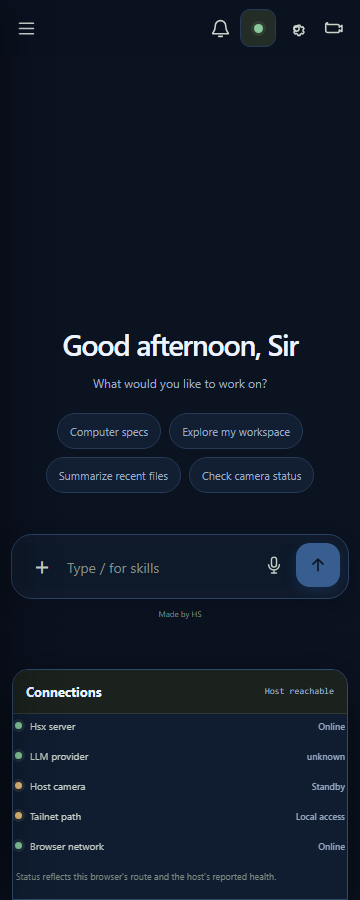
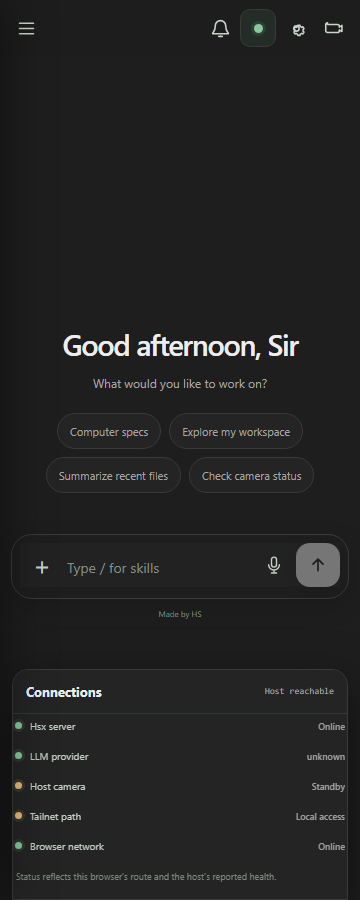
Redesign sidebars and neutralize theme palette

diff --git a/web/chat.css b/web/chat.css
@@ -1,19 +1,20 @@
 :root {
   color-scheme: dark;
-  --background: #0b1220;
-  --sidebar: #101a2b;
-  --surface: #121e31;
-  --surface-raised: #192942;
-  --surface-input: #101a2b;
-  --border: #263a57;
-  --text: #edf4ff;
-  --muted: #9aacc5;
-  --accent: #7db7ff;
-  --accent-strong: #4a9cff;
+  --background: #1e1e1e;
+  --sidebar: #181818;
+  --surface: #242424;
+  --surface-raised: #2d2d2d;
+  --surface-input: #222222;
+  --border: #3a3a3a;
+  --text: #ededed;
+  --muted: #a5a5a5;
+  --accent: #d2d2d2;
+  --accent-strong: #f0f0f0;
   --success: #87c99a;
   --warning: #e6bd77;
   --danger: #e28e88;
-  --code-background: #101411;
+  --code-background: #151515;
+  --button-text: #171717;
   --font-body: Inter, "Segoe UI", sans-serif;
   --font-code: "JetBrains Mono", Consolas, monospace;
   font-family: var(--font-body);
@@ -190,16 +191,6 @@ button:focus-visible, a:focus-visible, textarea:focus-visible, input:focus-visib
 .feedback-dialog label { color: var(--muted); font-size: 11px; }
 .feedback-dialog input, .feedback-dialog textarea { width: 100%; padding: 9px; border: 1px solid var(--border); border-radius: 8px; color: var(--text); background: #151a17; font: inherit; }
 .feedback-dialog form > div { display: flex; justify-content: flex-end; gap: 8px; margin-top: 4px; }
-.auth-dialog { width: min(440px, calc(100vw - 28px)); padding: 22px; border: 1px solid var(--accent); border-radius: 16px; color: var(--text); background: var(--surface); box-shadow: 0 24px 80px #000b; }
-.auth-dialog::backdrop { background: #070a08c9; backdrop-filter: blur(3px); }
-.auth-dialog form { display: grid; gap: 11px; }
-.auth-dialog h2 { margin: 0; font-size: 18px; }
-.auth-dialog p { margin: 0; color: var(--muted); line-height: 1.6; }
-.auth-dialog label { color: var(--text); font-size: 12px; }
-.auth-dialog input { width: 100%; padding: 11px; border: 1px solid var(--border); border-radius: 8px; color: var(--text); background: var(--surface-raised); font: inherit; }
-.auth-dialog #auth-message { min-height: 1em; color: var(--warning); font-size: 12px; }
-.auth-dialog button { min-height: 40px; border: 1px solid var(--accent); border-radius: 9px; color: #07151f; background: var(--accent); font: inherit; font-weight: 700; }
-
 .settings-dialog { width: min(760px, calc(100vw - 40px)); max-width: none; max-height: min(760px, calc(100dvh - 40px)); padding: 0; overflow: hidden; border: 1px solid #3b473e; border-radius: 18px; color: var(--text); background: var(--surface); box-shadow: 0 28px 90px #0009; }
 .settings-dialog::backdrop { background: #050806bf; backdrop-filter: blur(3px); }
 .settings-shell { display: flex; flex-direction: column; max-height: inherit; }
@@ -388,7 +379,7 @@ kbd { padding: 2px 4px; border: 1px solid #3c473f; border-radius: 4px; color: #a
   .sidebar-activity, .history-panel, .panel-collapse-button svg, .chat-history-row, .chat-history-item { transition-duration: .01ms !important; }
 }
 
-:root[data-theme="light"] { color-scheme: light; --background: #f5f7f5; --sidebar: #e9eeea; --surface: #fff; --surface-raised: #edf2ee; --surface-input: #fff; --border: #cbd5cd; --text: #1d2820; --muted: #5e6c61; --accent: #8cbe96; --accent-strong: #609d6c; --success: #3d8752; --warning: #a26e1f; --danger: #a1453d; --code-background: #edf1ed; }
+:root[data-theme="light"] { color-scheme: light; --background: #ffffff; --sidebar: #f7f7f7; --surface: #ffffff; --surface-raised: #f2f2f2; --surface-input: #ffffff; --border: #dedede; --text: #242424; --muted: #646464; --accent: #343434; --accent-strong: #1f1f1f; --success: #287a42; --warning: #885b10; --danger: #a13b36; --code-background: #f5f5f5; --button-text: #ffffff; }
 @media (max-width: 390px) {
   .chat-controls { gap: 2px; }
   .header-icon-button { width: 36px; height: 38px; }
@@ -538,146 +529,144 @@ kbd { padding: 2px 4px; border: 1px solid #3c473f; border-radius: 4px; color: #a
 .activity-capability-status[data-status="needs setup"] { color: var(--warning, #e0b56d); }
 .activity-capability-status[data-status="not possible yet"] { color: var(--text-muted); }
 
-/* Blue workspace refresh and compact sidebar cards. */
+/* Neutral surfaces, compact sidebar cards, and independent right-panel scroll regions. */
 .sidebar { padding: 18px 14px 14px; background: var(--sidebar); }
-.brand { justify-content: flex-start; margin: 0 0 18px; padding-left: 5px; }
-.brand-inner { justify-content: flex-start; }
-.new-chat-button { justify-content: flex-start; border-color: #31527b; background: #162944; }
-.new-chat-button:hover { border-color: #4a9cff; background: #1b3556; }
+.brand { justify-self: center; justify-content: center; margin: 0 0 18px; padding: 0; text-align: center; }
+.brand-inner { justify-content: center; }
+.new-chat-button { justify-content: flex-start; border-color: var(--border); background: var(--surface-raised); }
+.new-chat-button:hover { border-color: var(--muted); background: var(--surface); }
 .sidebar-activity, .history-panel {
   flex: 0 0 auto;
+  min-width: 0;
   max-height: none;
   margin-top: 12px;
   padding: 11px;
   border: 1px solid var(--border);
   border-radius: 14px;
-  background: linear-gradient(145deg, #14233a, #101a2b 75%);
+  background: var(--surface);
 }
-.sidebar-activity .artifacts-heading, .history-panel .artifacts-heading {
-  align-items: center;
-  margin: 0;
-}
-.sidebar-activity .panel-eyebrow, .history-panel .panel-eyebrow {
-  margin-bottom: 5px;
-  color: #82a9d8;
-}
+.sidebar-activity .artifacts-heading, .history-panel .artifacts-heading { align-items: center; margin: 0; }
+.sidebar-activity .panel-eyebrow, .history-panel .panel-eyebrow { margin-bottom: 5px; color: var(--muted); }
 .sidebar-activity h2, .history-panel h2 { font-size: 13px; letter-spacing: -.01em; }
 .sidebar-activity .connection-summary {
   padding: 4px 8px;
-  border: 1px solid #31527b;
+  border: 1px solid var(--border);
   border-radius: 999px;
-  color: #b7d7ff;
-  background: #172d4a;
+  color: var(--muted);
+  background: var(--surface-raised);
 }
-.sidebar-activity.is-expanded { max-height: min(37vh, 360px); }
-.sidebar-activity.is-expanded .artifacts-list { max-height: min(30vh, 290px); }
+.sidebar-activity.is-expanded { max-height: min(34vh, 300px); }
+.sidebar-activity.is-expanded .artifacts-list { max-height: min(27vh, 220px); }
 .sidebar-activity .artifacts-list { display: grid; gap: 7px; padding-top: 8px; }
 .activity-item {
   display: block;
   padding: 0;
   overflow: hidden;
-  border: 1px solid #263d5c;
+  border: 1px solid var(--border);
   border-radius: 11px;
-  background: #111e32;
+  background: var(--surface-input);
 }
 .activity-item-toggle {
   display: grid;
-  grid-template-columns: minmax(0, 1fr) auto 16px;
+  grid-template-columns: 16px minmax(0, 1fr) auto 16px;
   align-items: center;
   gap: 8px;
   width: 100%;
-  min-height: 46px;
+  min-height: 42px;
   padding: 7px 9px;
   border: 0;
   color: var(--text);
   background: transparent;
   text-align: left;
 }
-.activity-item-toggle:hover, .activity-item-toggle:focus-visible { background: #172b47; }
-.activity-item-toggle > svg { width: 16px; height: 16px; fill: none; stroke: #91a9c8; stroke-linecap: round; stroke-linejoin: round; stroke-width: 1.8; transition: transform .16s ease; }
+.activity-item-toggle:hover, .activity-item-toggle:focus-visible { background: var(--surface-raised); }
+.activity-item-toggle > svg { width: 16px; height: 16px; fill: none; stroke: var(--muted); stroke-linecap: round; stroke-linejoin: round; stroke-width: 1.8; transition: transform .16s ease; }
+.activity-item-toggle > .activity-icon { width: 16px; height: 16px; stroke: var(--muted); }
+.activity-item[data-state="running"] .activity-item-toggle > .activity-icon { color: var(--accent); stroke: currentColor; }
 .activity-item-toggle[aria-expanded="true"] > svg { transform: rotate(180deg); }
-.activity-summary { overflow: hidden; color: #e8f2ff; font-size: 11px; font-weight: 580; text-overflow: ellipsis; white-space: nowrap; }
-.activity-meta { grid-column: 2; grid-row: 1; }
-.activity-state { padding: 4px 7px; border: 1px solid #31527b; border-radius: 999px; color: #a9cefb; background: #162b46; font-size: 8px; }
-.activity-state[data-state="failed"] { border-color: #7f4b52; color: #ffb8bf; background: #3a202a; }
+.activity-summary { overflow: hidden; color: var(--text); font-size: 11px; font-weight: 580; text-overflow: ellipsis; white-space: nowrap; }
+.activity-meta { grid-column: 3; grid-row: 1; }
+.activity-state { padding: 4px 7px; border: 1px solid var(--border); border-radius: 999px; color: var(--muted); background: var(--surface-raised); font-size: 8px; }
+.activity-state[data-state="failed"] { border-color: #784b47; color: #f0aaa3; background: #372523; }
 .activity-card-details { display: grid; gap: 7px; padding: 0 10px 10px; }
 .activity-card-details[hidden] { display: none; }
-.activity-detail { align-items: flex-start; padding-top: 6px; border-top: 1px solid #203650; font: 9px var(--font-code); }
-.activity-detail strong { max-width: 72%; color: #c5d8f1; overflow-wrap: anywhere; white-space: normal; text-align: right; }
+.activity-detail { align-items: flex-start; padding-top: 6px; border-top: 1px solid var(--border); font: 9px var(--font-code); }
+.activity-detail strong { max-width: 72%; color: var(--text); overflow-wrap: anywhere; white-space: normal; text-align: right; }
 .history-panel { flex: 1 1 auto; min-height: 160px; }
 .history-panel.is-expanded { min-height: 0; }
-.history-search {
-  min-height: 40px;
-  padding: 0 12px;
-  border-color: #2b4568;
-  border-radius: 10px;
-  background: #0e192a;
-  font-size: 12px;
-}
-.history-search:focus { border-color: var(--accent-strong); box-shadow: 0 0 0 3px #4a9cff30; }
-.chat-history-list { gap: 4px; padding-top: 9px; scrollbar-color: #365a83 transparent; }
-.chat-history-list::-webkit-scrollbar-thumb, .sidebar-activity .artifacts-list::-webkit-scrollbar-thumb { background: #365a83; }
+.history-search { min-height: 40px; padding: 0 12px; border-color: var(--border); border-radius: 10px; background: var(--surface-input); font-size: 12px; }
+.history-search:focus { border-color: var(--accent-strong); box-shadow: 0 0 0 2px color-mix(in srgb, var(--accent-strong) 18%, transparent); }
+.chat-history-list { gap: 3px; padding-top: 9px; scrollbar-color: #686868 transparent; }
+.chat-history-list::-webkit-scrollbar-thumb, .sidebar-activity .artifacts-list::-webkit-scrollbar-thumb { background: #686868; }
 .chat-history-row { padding: 0 5px; border-radius: 9px; }
-.chat-history-row:hover { background: #182b44; }
-.chat-history-row[data-active="true"] { background: #193353; }
+.chat-history-row:hover { background: var(--surface-raised); }
+.chat-history-row[data-active="true"] { background: var(--surface-raised); }
 .chat-history-row[data-active="true"]::before { background: var(--accent-strong); }
-.chat-history-item { color: #ccdcf2; }
-.chat-history-item svg { color: #86baff; }
-.chat-history-action { border-radius: 8px; color: #91aac9; }
-.chat-history-action:hover { color: #e5f1ff; background: #24466c; }
-.chat-controls { background: #0b1220ed; }
-.camera-sidebar { border-color: var(--border); background: var(--sidebar); }
-.notifications-panel { border-color: #2e4a6d; background: #101d31; }
-.composer-dock, .composer { border-color: #2b4261; background-color: #101a2b; }
-.composer-input-row { border-color: #2b4261; background: #0e192a; }
-.send-button, .stop-button {
-  width: 48px;
-  min-width: 48px;
-  height: 44px;
-  border: 0;
-  border-radius: 14px;
-}
-.send-button { color: #071426; background: #66aaff; box-shadow: 0 4px 14px #2e83e455; }
-.send-button:hover { background: #89bdff; }
+.chat-history-item { color: var(--text); }
+.chat-history-item svg { color: var(--muted); }
+.chat-history-action { border-radius: 8px; color: var(--muted); }
+.chat-history-action:hover { color: var(--text); background: var(--surface-raised); }
+.chat-controls { background: color-mix(in srgb, var(--background) 94%, transparent); }
+.camera-sidebar { min-height: 0; border-color: var(--border); background: var(--sidebar); }
+.camera-sidebar { grid-template-rows: minmax(0, 1fr) minmax(0, .8fr); gap: 12px; }
+.camera-sidebar > .camera-panel { min-height: 0; overflow: hidden; }
+.camera-sidebar > .artifacts-panel { display: grid; grid-template-rows: auto minmax(0, 1fr); min-height: 0; max-height: 38vh; margin-top: 0; overflow: hidden; }
+.camera-sidebar > .artifacts-panel .artifacts-heading { position: relative; z-index: 1; background: var(--surface); }
+.camera-sidebar > .artifacts-panel .artifacts-list { min-height: 0; overflow-y: auto; overscroll-behavior: contain; }
+.camera-sidebar .camera-view { min-height: 90px; }
+.notifications-panel { border-color: var(--border); background: var(--surface); }
+.notifications-heading { background: var(--surface); }
+.notification-toast { border-color: var(--border); background: var(--surface-raised); }
+.composer-dock, .composer { border-color: var(--border); background-color: var(--background); }
+.composer-dock { background: linear-gradient(180deg, color-mix(in srgb, var(--background) 90%, transparent), var(--background) 24%); }
+.composer-input-row { border-color: var(--border); background: var(--surface-input); }
+.send-button, .stop-button { width: 48px; min-width: 48px; height: 44px; border: 0; border-radius: 14px; }
+.send-button { color: var(--button-text); background: var(--accent); box-shadow: 0 3px 12px #0002; }
+.send-button:hover { filter: brightness(1.12); }
 .send-button:disabled { opacity: .48; }
-.stop-button { padding: 0 4px; color: #d7eaff; background: #1e3858; font-size: 10px; }
-.stop-button:hover { background: #294d77; }
+.stop-button { padding: 0 4px; color: var(--text); background: var(--surface-raised); font-size: 10px; }
+.stop-button:hover { background: var(--surface); }
 .message-attachments { display: flex; flex-wrap: wrap; justify-content: flex-end; gap: 8px; margin: 0 0 8px; }
 .message-attachments[hidden] { display: none; }
-.message-attachment {
-  display: flex;
-  align-items: center;
-  gap: 9px;
-  max-width: min(340px, 78vw);
-  min-width: 0;
-  padding: 8px 10px;
-  border: 1px solid #31527b;
-  border-radius: 12px;
-  color: var(--text);
-  background: #132540;
-  text-align: left;
-}
-.message-attachment:hover { border-color: #66aaff; background: #193252; }
-.message-attachment-type {
-  display: grid;
-  flex: 0 0 34px;
-  place-items: center;
-  width: 34px;
-  height: 38px;
-  border: 1px solid #3e6390;
-  border-radius: 7px;
-  color: #a9cefb;
-  background: #1b3554;
-  font: 8px var(--font-code);
-}
+.message-attachment { display: flex; align-items: center; gap: 9px; max-width: min(340px, 78vw); min-width: 0; padding: 8px 10px; border: 1px solid var(--border); border-radius: 12px; color: var(--text); background: var(--surface); text-align: left; }
+.message-attachment:hover { border-color: var(--muted); background: var(--surface-raised); }
+.message-attachment-type { display: grid; flex: 0 0 34px; place-items: center; width: 34px; height: 38px; border: 1px solid var(--border); border-radius: 7px; color: var(--muted); background: var(--surface-raised); font: 8px var(--font-code); }
 .message-attachment-image { display: grid; gap: 5px; max-width: min(320px, 78vw); padding: 6px; }
-.message-attachment-image img { display: block; width: min(300px, 70vw); max-height: 220px; border-radius: 8px; background: #0b1220; object-fit: contain; }
+.message-attachment-image img { display: block; width: min(300px, 70vw); max-height: 220px; border-radius: 8px; background: var(--code-background); object-fit: contain; }
 .message-attachment-label { display: grid; min-width: 0; gap: 3px; }
 .message-attachment-name { overflow: hidden; max-width: 100%; font-size: 10px; font-weight: 600; text-overflow: ellipsis; white-space: nowrap; }
 .message-attachment-label small { color: var(--muted); font-size: 9px; }
-.message-card[data-role="user"] .message-content { border-color: #29466a; background: #14243a; }
+.message-card[data-role="user"] .message-content { border-color: var(--border); background: var(--surface-raised); }
 .composer-footer { justify-content: flex-end; min-height: 0; margin-top: 3px; }
-@media (max-width: 390px) {
+.feedback-dialog input, .feedback-dialog textarea { background: var(--surface-input); }
+.settings-tabs, .provider-health-item { background: var(--surface-input); }
+.camera-placeholder-icon { border-color: var(--border); color: var(--muted); background: var(--surface-input); }
+.camera-placeholder strong, .camera-metrics strong { color: var(--text); }
+.camera-heading, .camera-metrics { border-color: var(--border); }
+.camera-sidebar .artifacts-panel .artifacts-heading { border-color: var(--border); }
+@media (max-width: 1100px) { .camera-sidebar { grid-template-rows: minmax(0, 1fr) minmax(180px, .7fr); } }
+@media (max-width: 700px) {
+  .camera-sidebar { grid-template-rows: auto minmax(0, 1fr); overflow-y: auto; }
+  .camera-sidebar > .camera-panel { overflow: visible; }
+  .camera-sidebar > .artifacts-panel { min-height: 180px; max-height: 42dvh; }
   .send-button, .stop-button { width: 44px; min-width: 44px; }
   .message-attachment { max-width: 84vw; }
+}
+@media (prefers-reduced-motion: reduce) {
+  .activity-item .activity-spinner { animation: none; }
+}
+:root[data-theme="light"] .chat-controls { background: rgb(255 255 255 / 94%); }
+:root[data-theme="light"] .markdown-body { color: #303030; }
+:root[data-theme="light"] .markdown-body a { color: #303030; }
+:root[data-theme="light"] .markdown-body :not(pre) > code { color: #292929; }
+:root[data-theme="light"] .markdown-body pre code { color: #252525; }
+:root[data-theme="light"] .settings-tabs, :root[data-theme="light"] .provider-health-item,
+:root[data-theme="light"] .feedback-dialog input, :root[data-theme="light"] .feedback-dialog textarea,
+:root[data-theme="light"] .debug-info { background: var(--surface-raised); }
+:root[data-theme="light"] .activity-details, :root[data-theme="light"] .activity-details pre,
+:root[data-theme="light"] .activity-command { background: #f2f2f2; }
+:root[data-theme="light"] .camera-metrics span, :root[data-theme="light"] .camera-placeholder,
+:root[data-theme="light"] .message-time { color: #656565; }
+@media (max-width: 390px) {
+  .send-button, .stop-button { width: 44px; min-width: 44px; }
 }

diff --git a/tests/test_ui_contract.py b/tests/test_ui_contract.py
@@ -154,6 +154,9 @@ def test_web_and_tui_load_the_same_design_and_api_contract():
 
     assert tui._TOKENS == web_tokens
     assert tui._API == web_api
+    assert web_tokens["colors"]["background"] == "#1e1e1e"
+    assert web_tokens["colors"]["accent"] == "#d2d2d2"
+    assert "blue" not in web_tokens["colors"]
     assert web_api["endpoints"]["chat_stream"] == "/api/chat/stream"
     assert web_api["endpoints"]["feedback"] == "/api/feedback"
     assert web_api["endpoints"]["telemetry"] == "/api/telemetry"
@@ -293,8 +296,11 @@ def test_web_user_actions_accordion_state_and_camera_stream_are_wired():
     assert ".panel-collapse-button[aria-expanded=\"false\"] svg { transform: none; }" in css
     assert 'aria-expanded="false"' in html
     assert 'access-token' not in html
-    assert "sessionStorage', 'hsx-api-token'" in script
-    assert "headers.set('Authorization'" in script
+    assert "hsx-api-token" not in script
+    assert 'id="auth-dialog"' not in html
+    assert "hsx-theme" in script
+    assert "prefers-color-scheme: light" in script
+    assert "Authorization" not in script
     assert 'id="emergency-banner"' in html
     assert "Emergency stop is active" in html
     assert "emergency_stop" in script

diff --git a/agent/tui.py b/agent/tui.py
@@ -40,12 +40,12 @@ def _build_css() -> str:
     }}
     #brand {{
         width: 1fr;
-        color: {_COLORS["blue"]};
+        color: {_COLORS["accent"]};
         text-style: bold;
     }}
     #connection {{
         width: 14;
-        color: {_COLORS["teal"]};
+        color: {_COLORS["success"]};
     }}
     .metric {{
         width: 18;
@@ -83,7 +83,7 @@ def _build_css() -> str:
     }}
     .message-heading {{
         height: 1;
-        color: {_COLORS["blue"]};
+        color: {_COLORS["accent"]};
         text-style: bold;
     }}
     .message-body {{
@@ -108,7 +108,7 @@ def _build_css() -> str:
     }}
     .feedback-status {{
         width: 1fr;
-        color: {_COLORS["teal"]};
+        color: {_COLORS["success"]};
     }}
     #composer-dock {{
         width: 100%;
@@ -133,8 +133,8 @@ def _build_css() -> str:
         min-width: 12;
         height: 3;
         margin-left: 1;
-        border: round {_COLORS["blue"]};
-        background: {_COLORS["blue"]};
+        border: round {_COLORS["accent"]};
+        background: {_COLORS["accent"]};
         color: {_COLORS["background"]};
         text-style: bold;
     }}
